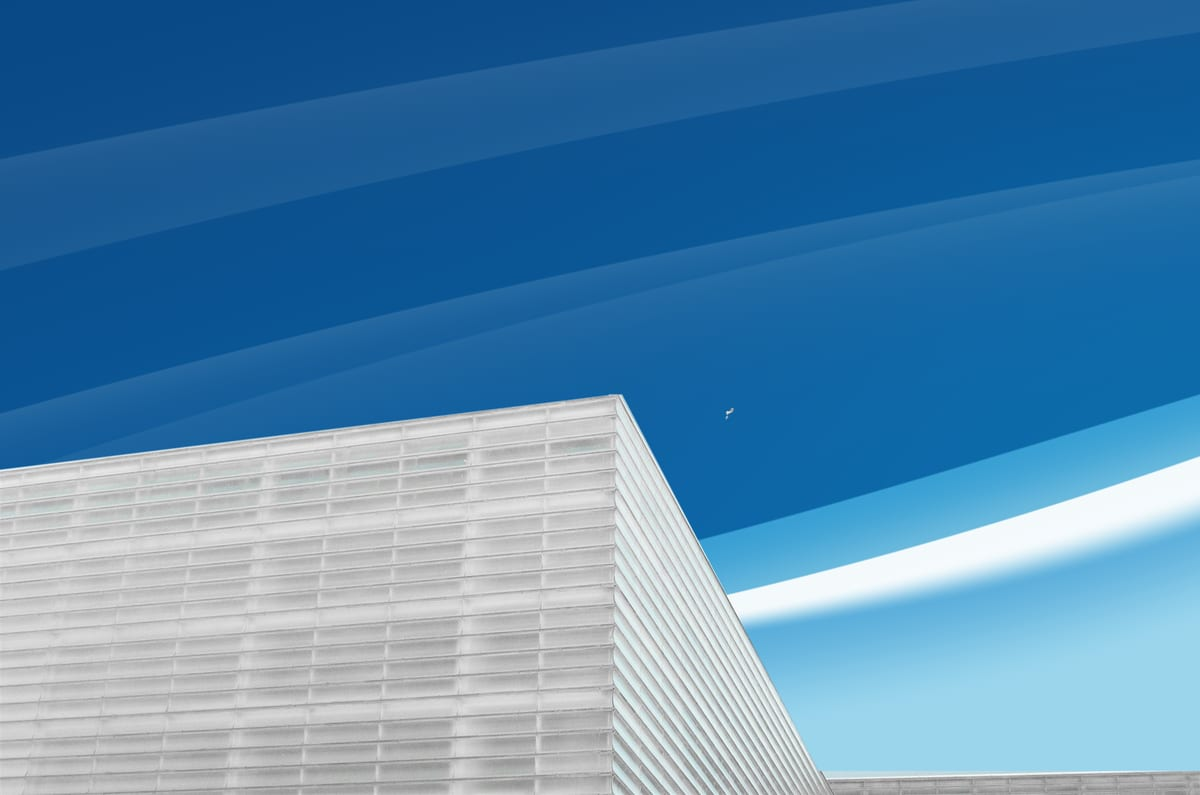
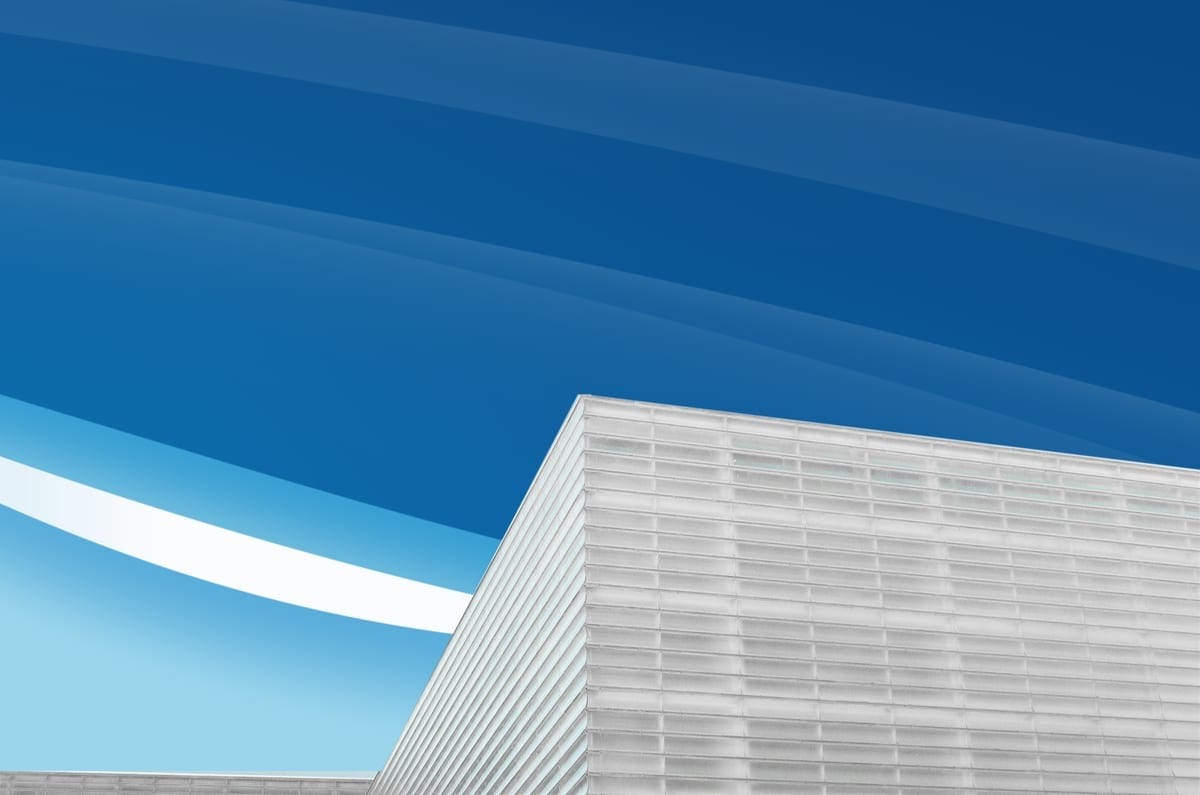
Home: mirrored photo with a solid swoosh, clearer title; home2 and home3 to compare
- Main home: the photo is mirrored (the building on the right, the waves
  on the left), the last wave is a solid white swoosh like the poster,
  the broken gull is gone, the title has no text-shadow and the photo is
  framed higher so the building stays below the title on laptops.
- /home2/: the original pale sky and framing, title in a deeper UNEVOC
  blue (deep, #084885) so it reads on the pale sky.
- /home3/: no waves, a flat UNEVOC azure sky (#126ab4), framed a little
  higher. Both are out of the menu, lists and sitemap.

diff --git a/themes/basqueunevocweek/layouts/_partials/home-hero.html b/themes/basqueunevocweek/layouts/_partials/home-hero.html
@@ -1,13 +1,16 @@
 {{- /* The first screen of the home, shared by the home and its draft versions (home-variant.html). Takes v, the version: 1 the first design, 2 the menu in UNEVOC azure, 3 every dark blue text in UNEVOC azure (the one the home uses). */ -}}
 {{ $v := .v }}
-{{/* A full-screen photo of the Kursaal against the sky, with the title in the sky and the menu over it (the header is transparent on the home). A leaning cube, the brand shape, is bitten out of its lower left corner for the dates, with two small shards in pink and lime on its edge (.shape-hero in main.css). */}}
+{{- /* sky: the photo (images/<sky>.jpg and <sky>-1200.jpg; kursaal-sky by default, the sky after the poster's waves). light: a pale sky, so the title is the deeper UNEVOC blue (deep) instead of white: azure is too light on it. alt: the photo's description. frameLow: keep the photo's original framing (object-position 45% 100%, the building higher up). flipped: the photo is mirrored (the building on the right), so it is framed from 55% across instead of 45%. frameY "30%": the building a little higher (home3); 30% is the most it can rise and still clear the title on a 1280×600 browser window. */ -}}
+{{ $sky := .sky | default "kursaal-sky" }}
+{{ $alt := .alt | default "The corner of one of the Kursaal's glass cubes against a blue sky" }}
+{{/* A full-screen photo of the Kursaal against the sky, framed high (object-position 45% 20%) so that on wide, short screens the building stays below the title, with the title in the sky and the menu over it (the header is transparent on the home). A leaning cube, the brand shape, is bitten out of its lower left corner for the dates, with two small shards in pink and lime on its edge (.shape-hero in main.css). */}}
 {{- /* A white strip behind the fixed menu (header-home), under the first photo: the photo hides it while it is at the top, so the menu looks transparent there, and it shows as soon as the photo scrolls away. Works in every browser; where scroll-driven animations exist, the menu turns white even sooner (main.css). */ -}}
 <div class="fixed inset-x-0 top-0 z-40 h-[4.6rem] border-b border-nobility/10 bg-white/90 backdrop-blur lg:h-18" aria-hidden="true"></div>
 <section class="relative isolate z-[45] {{ if eq $v 3 }}text-azure {{ end }}h-[88svh] min-h-[560px] lg:h-svh lg:min-h-[680px]">
-  <img src="{{ "images/kursaal-sky.jpg" | relURL }}" srcset="{{ "images/kursaal-sky-1200.jpg" | relURL }} 1200w, {{ "images/kursaal-sky.jpg" | relURL }} 2400w" sizes="100vw" alt="The corner of one of the Kursaal's glass cubes against a blue sky" width="2400" height="1590" fetchpriority="high" class="shape-hero absolute inset-0 -z-10 size-full object-cover object-[45%_100%]">
+  <img src="{{ printf "images/%s.jpg" $sky | relURL }}" srcset="{{ printf "images/%s-1200.jpg" $sky | relURL }} 1200w, {{ printf "images/%s.jpg" $sky | relURL }} 2400w" sizes="100vw" alt="{{ $alt }}" width="2400" height="1590" fetchpriority="high" class="shape-hero absolute inset-0 -z-10 size-full object-cover {{ if .frameLow }}object-[45%_100%]{{ else if .flipped }}object-[55%_20%]{{ else if eq .frameY "30%" }}object-[45%_30%]{{ else }}object-[45%_20%]{{ end }}">
 
   <div class="container-wide pt-24 lg:pt-32">
-    <h1 class="max-w-[16ch] text-white [text-shadow:0_2px_24px_rgb(11_74_143/0.45)] font-sans text-5xl leading-[0.95] font-semibold tracking-[-0.035em] text-balance sm:text-7xl lg:text-[clamp(4.5rem,7vw,8.5rem)]">{{ site.Title }}</h1>
+    <h1 class="max-w-[16ch] {{ if .light }}text-deep{{ else }}text-white{{ end }} font-sans text-5xl leading-[0.95] font-semibold tracking-[-0.035em] text-balance sm:text-7xl lg:text-[clamp(4.5rem,min(7vw,10svh),8.5rem)]">{{ site.Title }}</h1>
   </div>
 
   <span class="shape-cube absolute bottom-[9.5rem] left-[76%] h-9 w-14 -translate-x-1/2 translate-y-1/2 bg-pink lg:bottom-[11rem] lg:left-[43%] lg:h-14 lg:w-24" aria-hidden="true"></span>

diff --git a/themes/basqueunevocweek/layouts/_partials/header.html b/themes/basqueunevocweek/layouts/_partials/header.html
@@ -2,8 +2,10 @@
 {{- /* Draft versions of the home are home pages too: version 2 has the menu text in UNEVOC azure (dark blue on hover); everywhere else links are dark blue and turn pink on hover, like the buttons */ -}}
 {{ $isHome := or $page.IsHome (isset $page.Params "home_variant") }}
 {{ $azureText := eq $page.Params.home_variant 2 }}
+{{- /* A home variant on a pale sky keeps the menu dark over the photo (header-dark in main.css) */ -}}
+{{ $darkOverPhoto := $page.Params.light }}
 {{- /* Light, with dark text. On the home it stays at the top over the first photo, transparent, and turns white as soon as the page scrolls (.header-home in main.css); elsewhere it sticks to the top on large screens. */ -}}
-<header class="{{ if $azureText }}header-home fixed inset-x-0 top-0 text-azure{{ else if $isHome }}header-home fixed inset-x-0 top-0 text-nobility{{ else }}relative border-b border-nobility/10 bg-white/90 text-nobility backdrop-blur lg:sticky lg:top-0{{ end }} z-50">
+<header class="{{ if $azureText }}header-home fixed inset-x-0 top-0 text-azure{{ else if $isHome }}header-home{{ if $darkOverPhoto }} header-dark{{ end }} fixed inset-x-0 top-0 text-nobility{{ else }}relative border-b border-nobility/10 bg-white/90 text-nobility backdrop-blur lg:sticky lg:top-0{{ end }} z-50">
   <div class="container-wide flex items-center justify-between gap-4 py-4 lg:h-18 lg:py-0">
     <a href="{{ site.Home.RelPermalink }}" class="font-display text-xl{{ if $azureText }} transition hover:text-nobility{{ else }} transition hover:text-pink{{ end }}"{{ if $isHome }} aria-current="page"{{ end }}>Home</a>
     <nav class="hidden lg:block" aria-label="Main">

diff --git a/themes/basqueunevocweek/assets/css/main.css b/themes/basqueunevocweek/assets/css/main.css
@@ -22,6 +22,7 @@
 
   --color-nobility: #181848; /* text and dark surfaces */
   --color-azure: #126ab4;   /* unevoc: main brand surface */
+  --color-deep: #084885;    /* deeper unevoc blue, the poster's navy: text on pale photos (5:1 on the pale Kursaal sky, where azure is 3.5:1) */
   --color-mist: #eaf3fc;    /* soft surface */
   --color-pink: #a34068;    /* fp: accent */
   --color-lime: #c3d13a;    /* tknika: surfaces and lines only, low contrast as text on white */
@@ -40,6 +41,20 @@
   }
   to {
     color: var(--color-nobility);
+    background-color: rgb(255 255 255 / 0.9);
+    border-bottom-color: rgb(24 24 72 / 0.1);
+    backdrop-filter: blur(8px);
+  }
+}
+
+/* The same for a home variant on a pale sky: the text stays dark */
+@keyframes header-solid-dark {
+  from {
+    background-color: transparent;
+    border-bottom-color: transparent;
+    backdrop-filter: none;
+  }
+  to {
     background-color: rgb(255 255 255 / 0.9);
     border-bottom-color: rgb(24 24 72 / 0.1);
     backdrop-filter: blur(8px);
@@ -134,6 +149,9 @@
       animation: header-solid linear both;
       animation-timeline: scroll();
       animation-range: 0 6rem;
+    }
+    .header-home.header-dark {
+      animation-name: header-solid-dark;
     }
   }
 

diff --git a/themes/basqueunevocweek/layouts/home-variant.html b/themes/basqueunevocweek/layouts/home-variant.html
@@ -1,0 +1,3 @@
+{{- /* Alternative versions of the home, to compare (content/home2.md, home3.md): the same page as the home with another photo for the first screen. Front matter: sky (the photo, see home-hero.html), light (a pale sky: title and menu dark over it), alt, frame_low (the photo's original framing), frame_y ("30%": the building a little higher). */ -}}
+{{ define "hero" }}{{ partial "home-hero.html" (dict "v" 3 "sky" .Params.sky "light" .Params.light "alt" .Params.alt "frameLow" .Params.frame_low "frameY" .Params.frame_y) }}{{ end }}
+{{ define "main" }}{{ partial "home-main.html" (dict "page" . "v" 3) }}{{ end }}

diff --git a/themes/basqueunevocweek/layouts/home.html b/themes/basqueunevocweek/layouts/home.html
@@ -1,3 +1,3 @@
-{{- /* The home uses the colours of draft version 3: texts in UNEVOC azure, links dark blue turning pink on hover */ -}}
-{{ define "hero" }}{{ partial "home-hero.html" (dict "v" 3) }}{{ end }}
+{{- /* The home uses the colours of draft version 3: texts in UNEVOC azure, links dark blue turning pink on hover. Its photo (kursaal-sky.jpg) is mirrored, the building on the right, the waves on the left */ -}}
+{{ define "hero" }}{{ partial "home-hero.html" (dict "v" 3 "flipped" true) }}{{ end }}
 {{ define "main" }}{{ partial "home-main.html" (dict "page" . "v" 3) }}{{ end }}

diff --git a/content/home2.md b/content/home2.md
@@ -1,0 +1,14 @@
+---
+title: "Home 2"
+# The home as it was before the sky was changed: the original pale sky, title and menu in UNEVOC azure. Only to compare; not in the menu.
+layout: home-variant
+home_variant: "pale"
+sky: "kursaal-sky-pale"
+light: true
+frame_low: true
+alt: "The corner of one of the Kursaal's glass cubes against a pale blue sky"
+build:
+  list: never
+sitemap:
+  disable: true
+---

diff --git a/content/home3.md b/content/home3.md
@@ -1,0 +1,13 @@
+---
+title: "Home 3"
+# The home with a plain UNEVOC azure sky, no waves; title and menu in white. Only to compare; not in the menu.
+layout: home-variant
+home_variant: "azure"
+sky: "kursaal-sky-azure"
+frame_y: "30%"
+alt: "The corner of one of the Kursaal’s glass cubes against a clear blue sky"
+build:
+  list: never
+sitemap:
+  disable: true
+---
